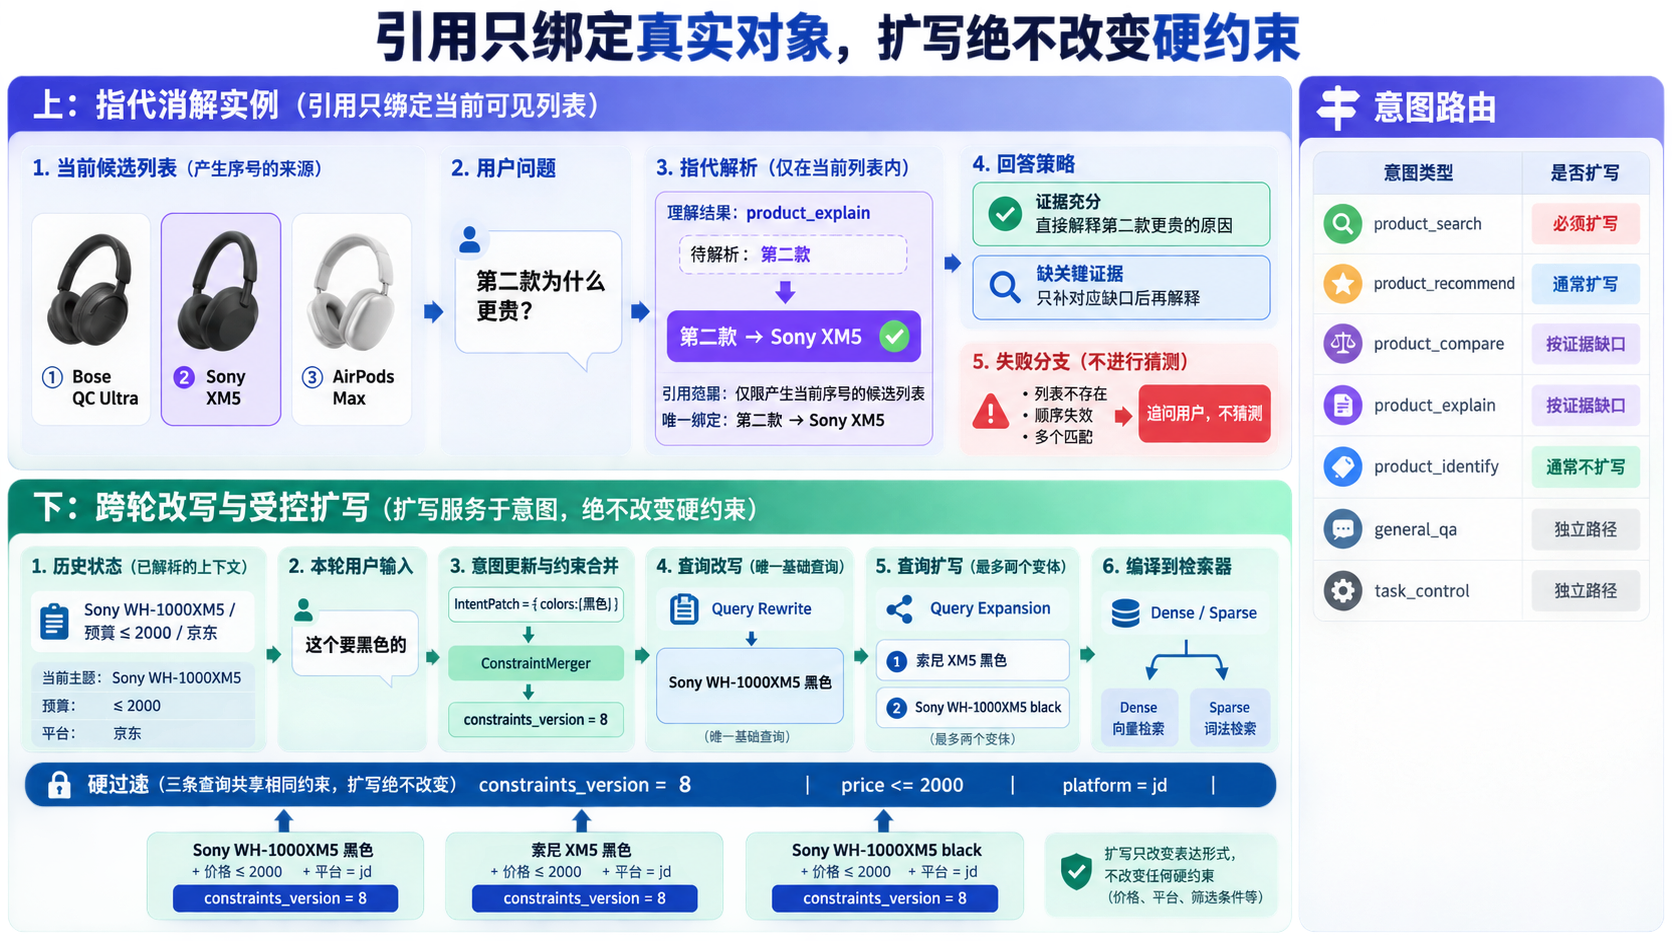
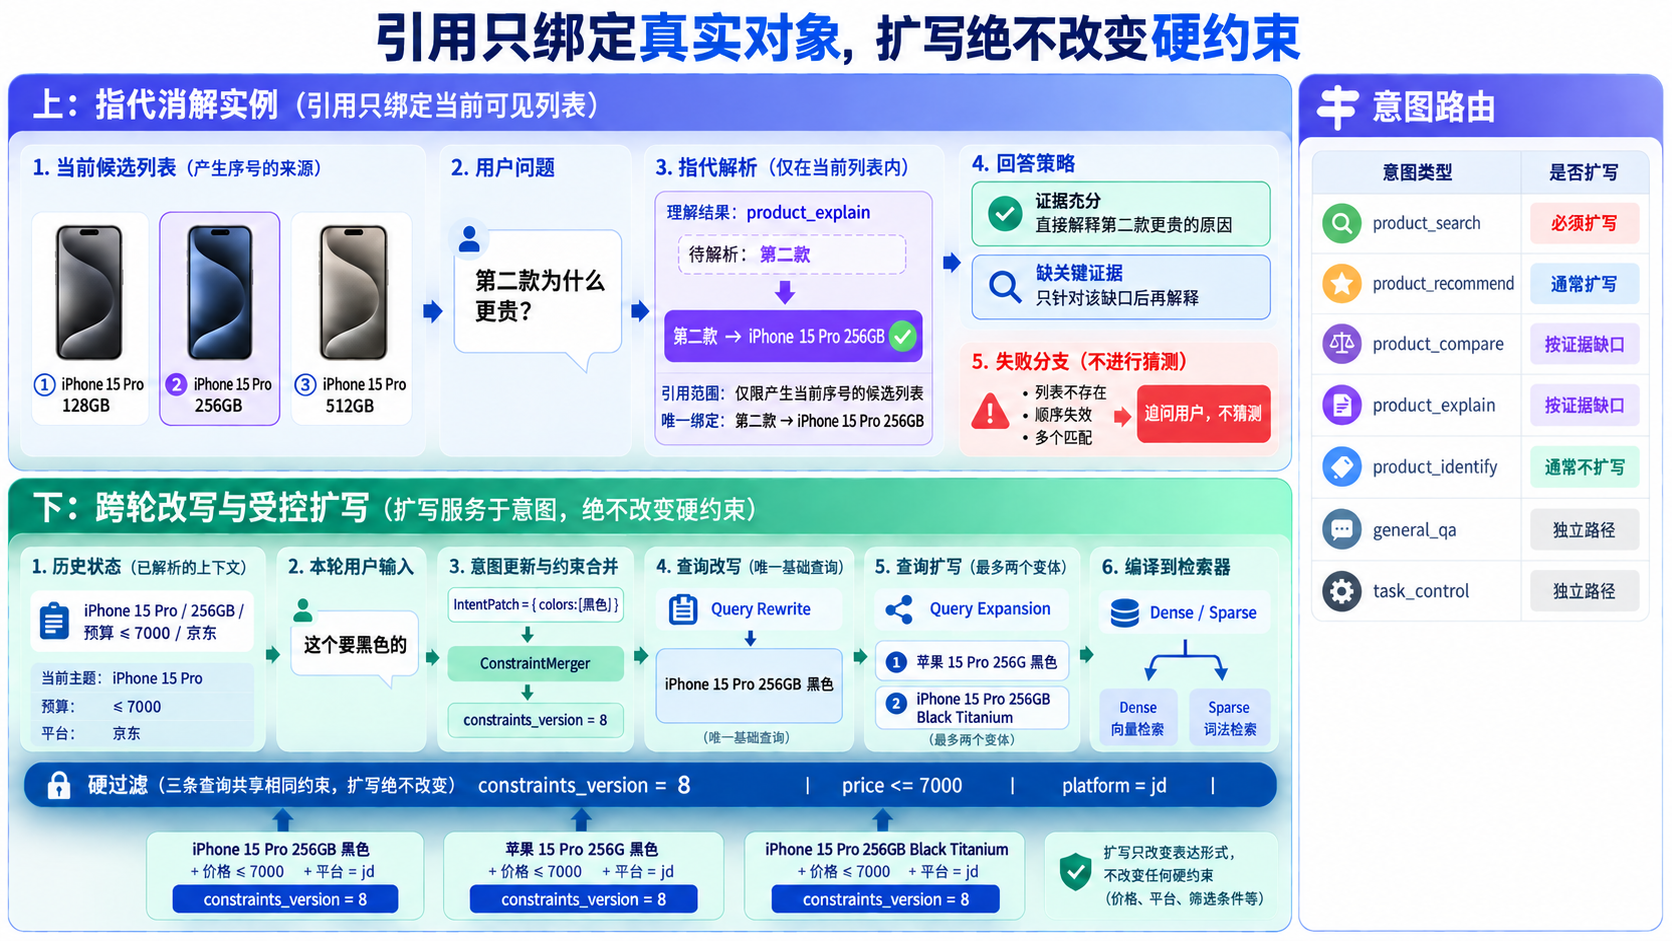
docs: update intent diagram with iPhone example

diff --git a/docs/presentations/intent-recognition/intent_recognition_presentation.md b/docs/presentations/intent-recognition/intent_recognition_presentation.md
@@ -52,22 +52,23 @@
 
 - 标题：引用只绑定真实对象，扩写绝不改变硬约束
 - 布局：上下两条实例链路；上半区展示“指代如何落到当前候选”，下半区展示“状态如何变成安全检索查询”
+- 背景：纯白色不透明背景，不使用透明底或棋盘格
 - 上半区，候选指代实例：
-  1. 当前候选：① Bose QC Ultra　② Sony XM5　③ AirPods Max
+  1. 当前候选：① iPhone 15 Pro 128GB　② iPhone 15 Pro 256GB　③ iPhone 15 Pro 512GB
   2. 用户：「第二款为什么更贵？」
   3. 理解结果：目标是解释价格差异；待解析指代是“第二款”
   4. 引用范围：只在产生“第一款、第二款、第三款”的当前候选列表中查找，不跨到其他历史列表
-  5. 绑定结果：“第二款”唯一对应 Sony XM5，将该商品作为本轮解释对象
+  5. 绑定结果：“第二款”唯一对应 iPhone 15 Pro 256GB，将该商品作为本轮解释对象
   6. 后续动作：价格、规格和来源证据充分 → 直接解释；缺少关键证据 → 只补查对应缺口
   7. 失败分支：候选列表不存在、顺序已失效或出现多个匹配 → 先追问用户，不猜测对象
 - 下半区，跨轮改写与扩写实例：
-  1. 历史有效状态：Sony WH-1000XM5 / 预算 ≤ 2000 / 京东
+  1. 历史有效状态：iPhone 15 Pro / 256GB / 预算 ≤ 7000 / 京东
   2. 本轮：「这个要黑色的」
   3. 指代绑定当前主题；`IntentPatch = { colors:[黑色] }`
   4. `ConstraintMerger` 产出 `constraints_version = 8`
-  5. Query Rewrite 生成唯一基础查询：`Sony WH-1000XM5 黑色`
-  6. 独立硬过滤：`price <= 2000`、`platform = jd`
-  7. Query Expansion 最多增加两个高价值变体：`索尼 XM5 黑色`、`Sony WH-1000XM5 black`
+  5. Query Rewrite 生成唯一基础查询：`iPhone 15 Pro 256GB 黑色`
+  6. 独立硬过滤：`price <= 7000`、`platform = jd`
+  7. Query Expansion 最多增加两个高价值变体：`苹果 15 Pro 256G 黑色`、`iPhone 15 Pro 256GB Black Titanium`
   8. 每个查询共享同一份硬过滤和 `constraints_version = 8`，再编译到 Dense / Sparse 等物理通道
 - 右侧放意图路由小表：
   - 必须扩写：`product_search`
